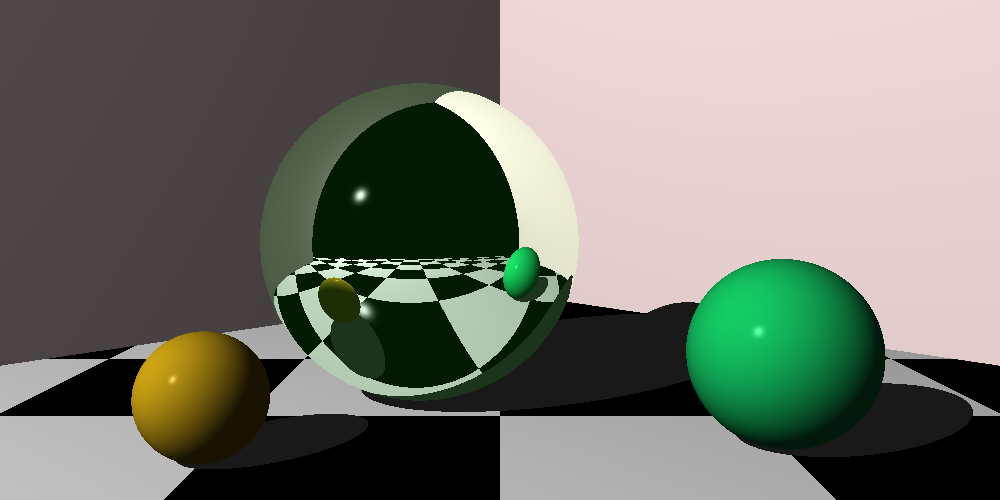
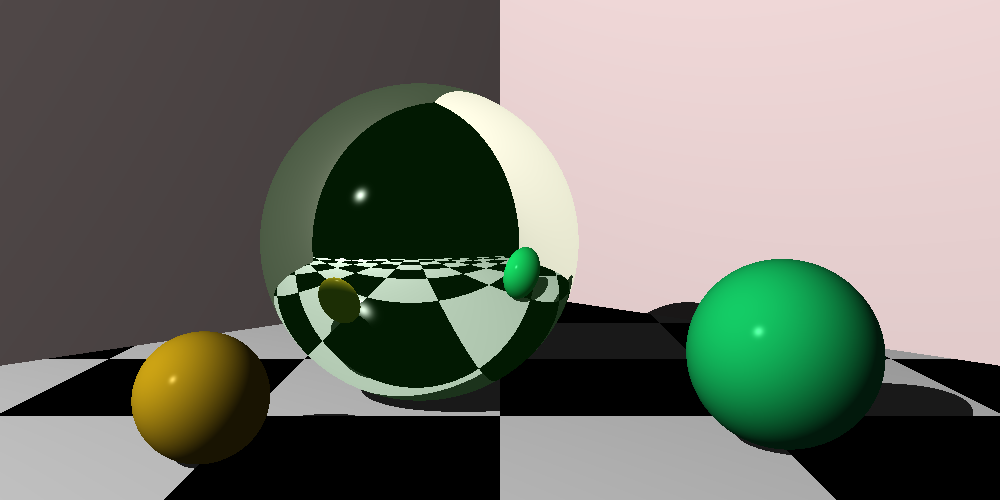
Fix shadow problem on textured surfaces

diff --git a/pkg/lighting/lighting.go b/pkg/lighting/lighting.go
@@ -67,7 +67,7 @@ func PhongShadow(
 	if m == nil {
 		panic(fmt.Errorf("nil material passed to PhongShadow()"))
 	}
-	effectiveColor := m.Color().Mult(l.Intensity())
+	effectiveColor := m.ColorAt(point).Mult(l.Intensity())
 	ambient := effectiveColor.Scale(m.Ambient())
 	return ambient
 }
